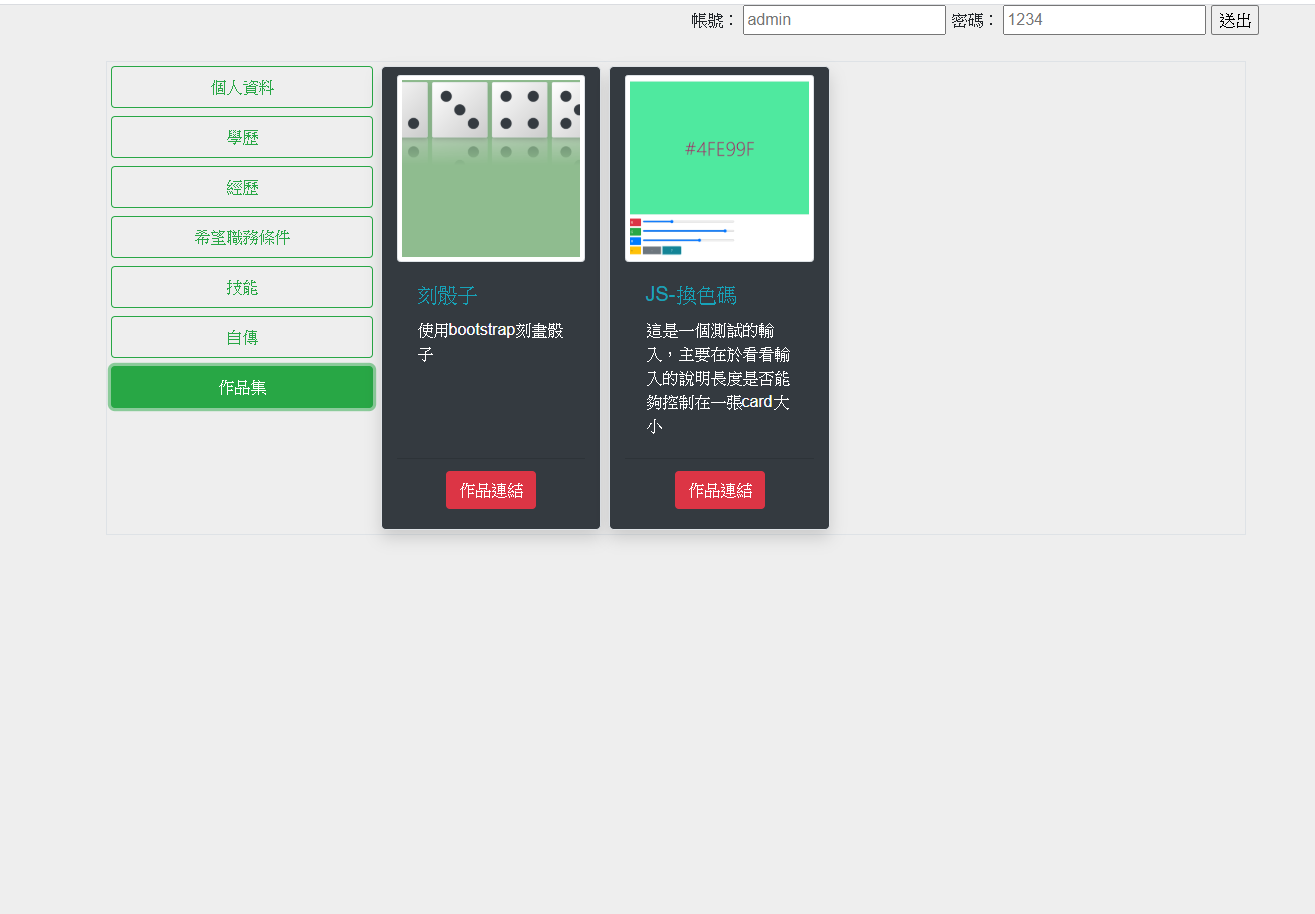
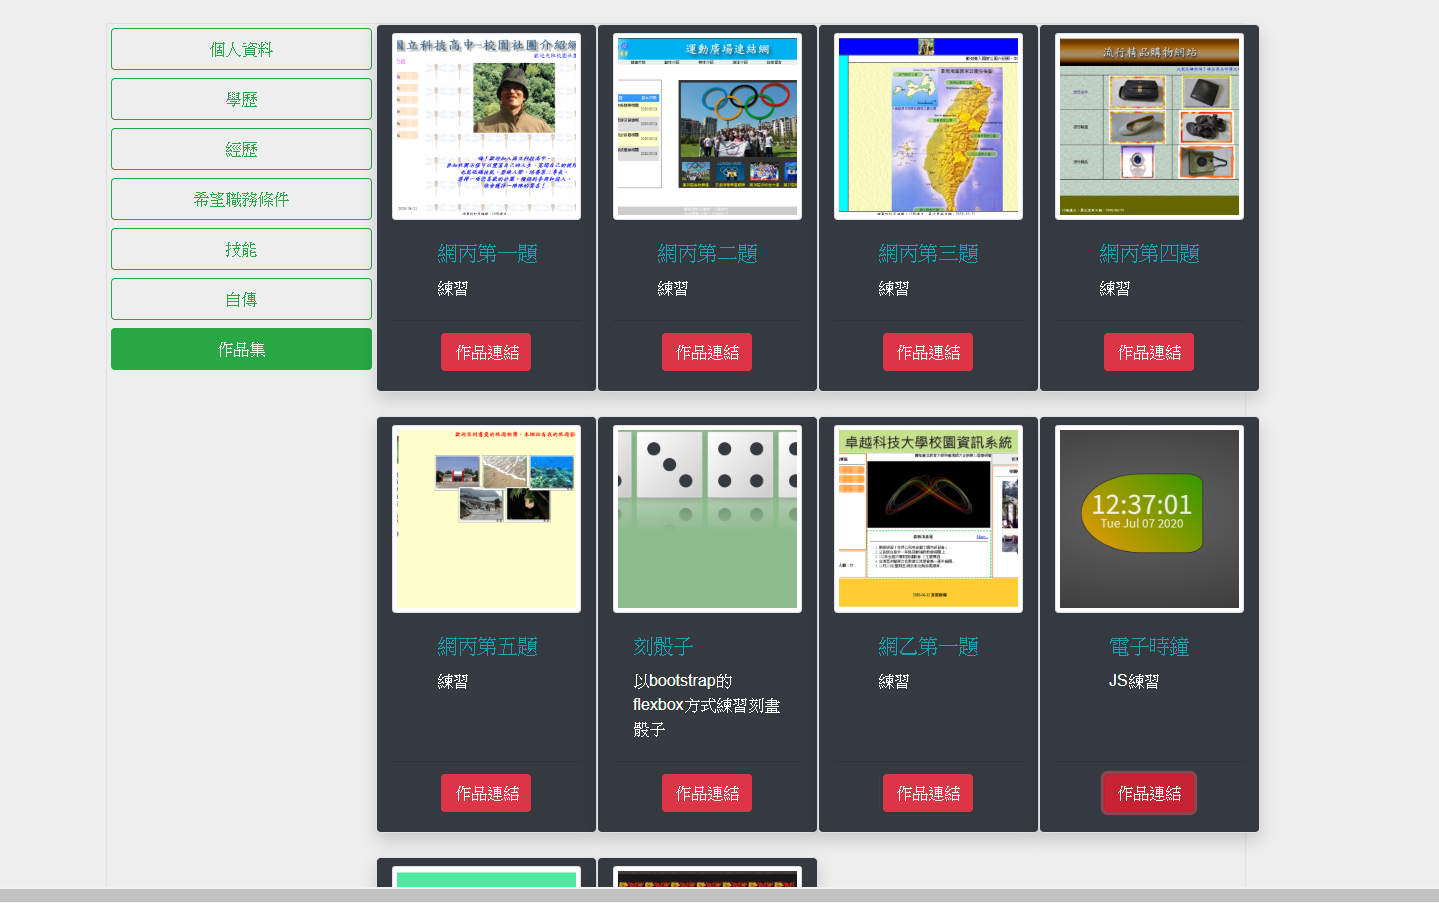
前台作品集顯示修正

diff --git a/front/portfolio.php b/front/portfolio.php
@@ -1,4 +1,4 @@
-<div class="card-deck">
+<div class="row row-cols-1 row-cols-md-2 row-cols-lg-4">
 
     <?php include_once "base.php";
     $db = new DB('portfolio');
@@ -6,16 +6,16 @@
     foreach($por as $key=>$value){
         
         ?>
-    <div class="card m-1 border rounded-lg shadow col-12 col-md-6 col-lg-3 bg-dark text-white">
-        <img src="img/<?=$value['img'];?>" class="card-img-top portimg img-thumbnail mt-2">
-        <div class="card-body mx-auto">
-            <h5 class="card-title text-info"><?=$value['title'];?></h5>
-            <p class="card-text"><?=$value['intro'];?></p>
-        </div>
-        <div class="card-footer text-center bg-dark mb-2">
-            <a href="<?=$value['url'];?>" target="_new" class="btn btn-danger">作品連結</a>
-        </div>
-    </div>
+            <div class="card border rounded-lg shadow bg-dark text-white col mb-4">
+                <img src="img/<?=$value['img'];?>" class="card-img-top portimg img-thumbnail mt-2">
+                <div class="card-body mx-auto">
+                    <h5 class="card-title text-info"><?=$value['title'];?></h5>
+                    <p class="card-text"><?=$value['intro'];?></p>
+                </div>
+                <div class="card-footer text-center bg-dark mb-2">
+                    <a href="<?=$value['url'];?>" target="_new" class="btn btn-danger">作品連結</a>
+                </div>
+            </div>
 <?php
 }
 ?>

diff --git a/autobiography.php b/autobiography.php
@@ -1,0 +1,32 @@
+<?php
+include_once "../base.php";
+$db = new DB('autobiography');
+
+foreach ($_POST['id'] as $key => $id) {
+    // 先做刪除，刪掉的就不用再修改了
+    if (!empty($_POST['del']) && in_array($id, $_POST['del'])) {
+
+        $db->del($id);
+    } else {
+        $row = $db->find($id);
+        $row['content'] = $_POST['content'][$key];
+        $row['sh'] = ($id == $_POST['sh']) ? 1 : 0;
+        $db->save($row);
+    }
+}
+// var_dump($_POST['content2']);
+if (!empty($_POST['content2'])) {
+    foreach ($_POST['content2'] as $key => $value) {
+        $data['content'] = $value;
+        $data['sh'] = 0;
+        // var_dump($data);
+        $db->save($data);
+    }
+}
+
+
+
+setcookie("do", "autobiography", time() + 10, "/");
+
+
+to("../backend/index.php");
